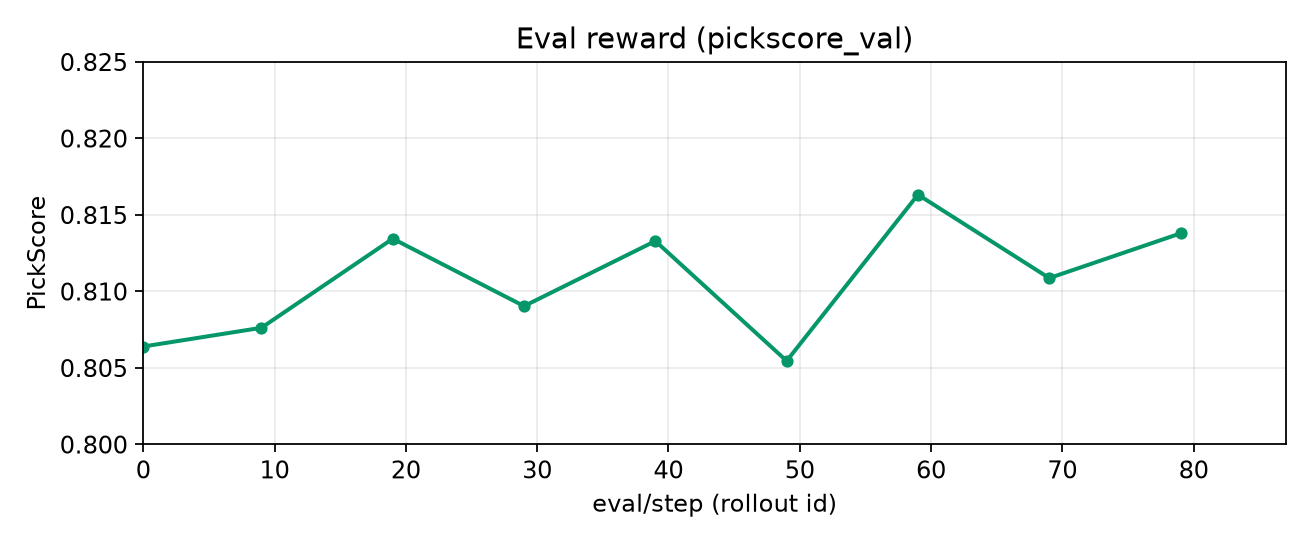
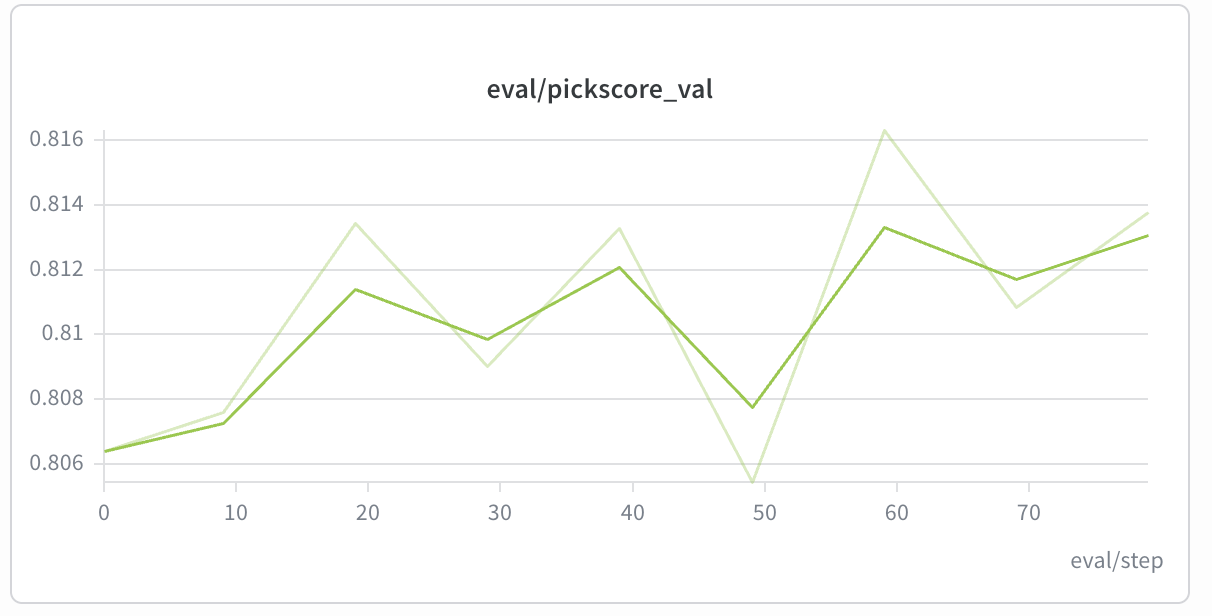
docs(h3): use the wandb result plots from PR 154
The matplotlib exports in the PR tree were an older replot; the description's screenshots are the curves shown on the PR.

diff --git a/docs/models/h3/h3.md b/docs/models/h3/h3.md
@@ -56,7 +56,9 @@ python3 scripts/run_diffusion_grpo_h3_t2va_2gpu.py \
 - Eval PickScore (`eval/pickscore_test`, every 10 rollouts): **0.806 → 0.814**, peak **0.816** at step 59.
 - Train `rollout/reward/raw_mean` sits around **~0.79** (64 samples / step; noisier than eval).
 
-This is the batch-4 curve, not the forthcoming large-scale recipe.
+This is the batch-4 curve from [PR #154](https://github.com/radixark/miles_diffusion/pull/154), not the forthcoming large-scale recipe.
+
+![MiniMax H3 log_prob_mean_abs_diff](../../assets/images/h3/log_prob_diff.png)
 
 ![MiniMax H3 eval PickScore](../../assets/images/h3/reward_eval.png)
 
